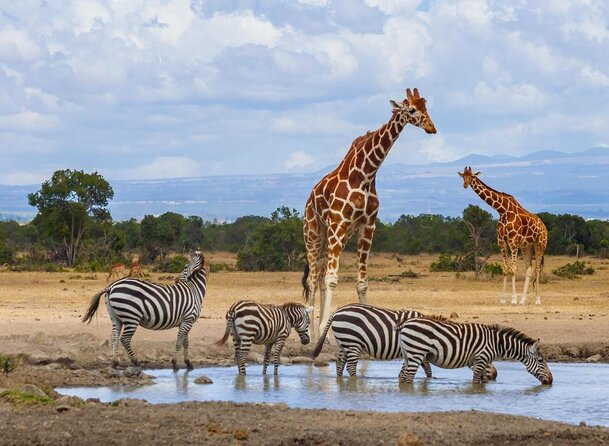
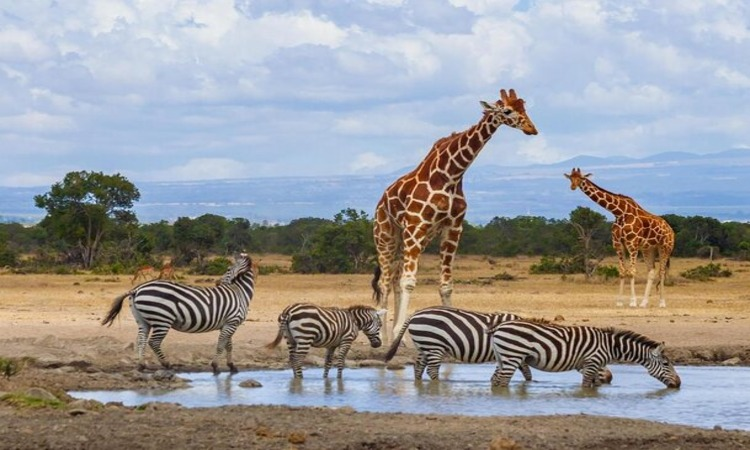
resized & updated destination images

diff --git a/destinations.php b/destinations.php
@@ -337,7 +337,7 @@ Tour grid START -->
                             <!-- Overlay item -->
                             <div class="position-relative">
                                 <!-- Image -->
-                                <img src="assets/images/classic/c1.jpg" class="card-img-top" alt="Card image">
+                                <img src="assets/images/destiantions/nrb-np.jpg" class="card-img-top" alt="Card image">
                                 <!-- Overlay -->
                                 <div class="card-img-overlay d-flex flex-column p-4 z-index-1">
                                     <!-- Card overlay top -->
